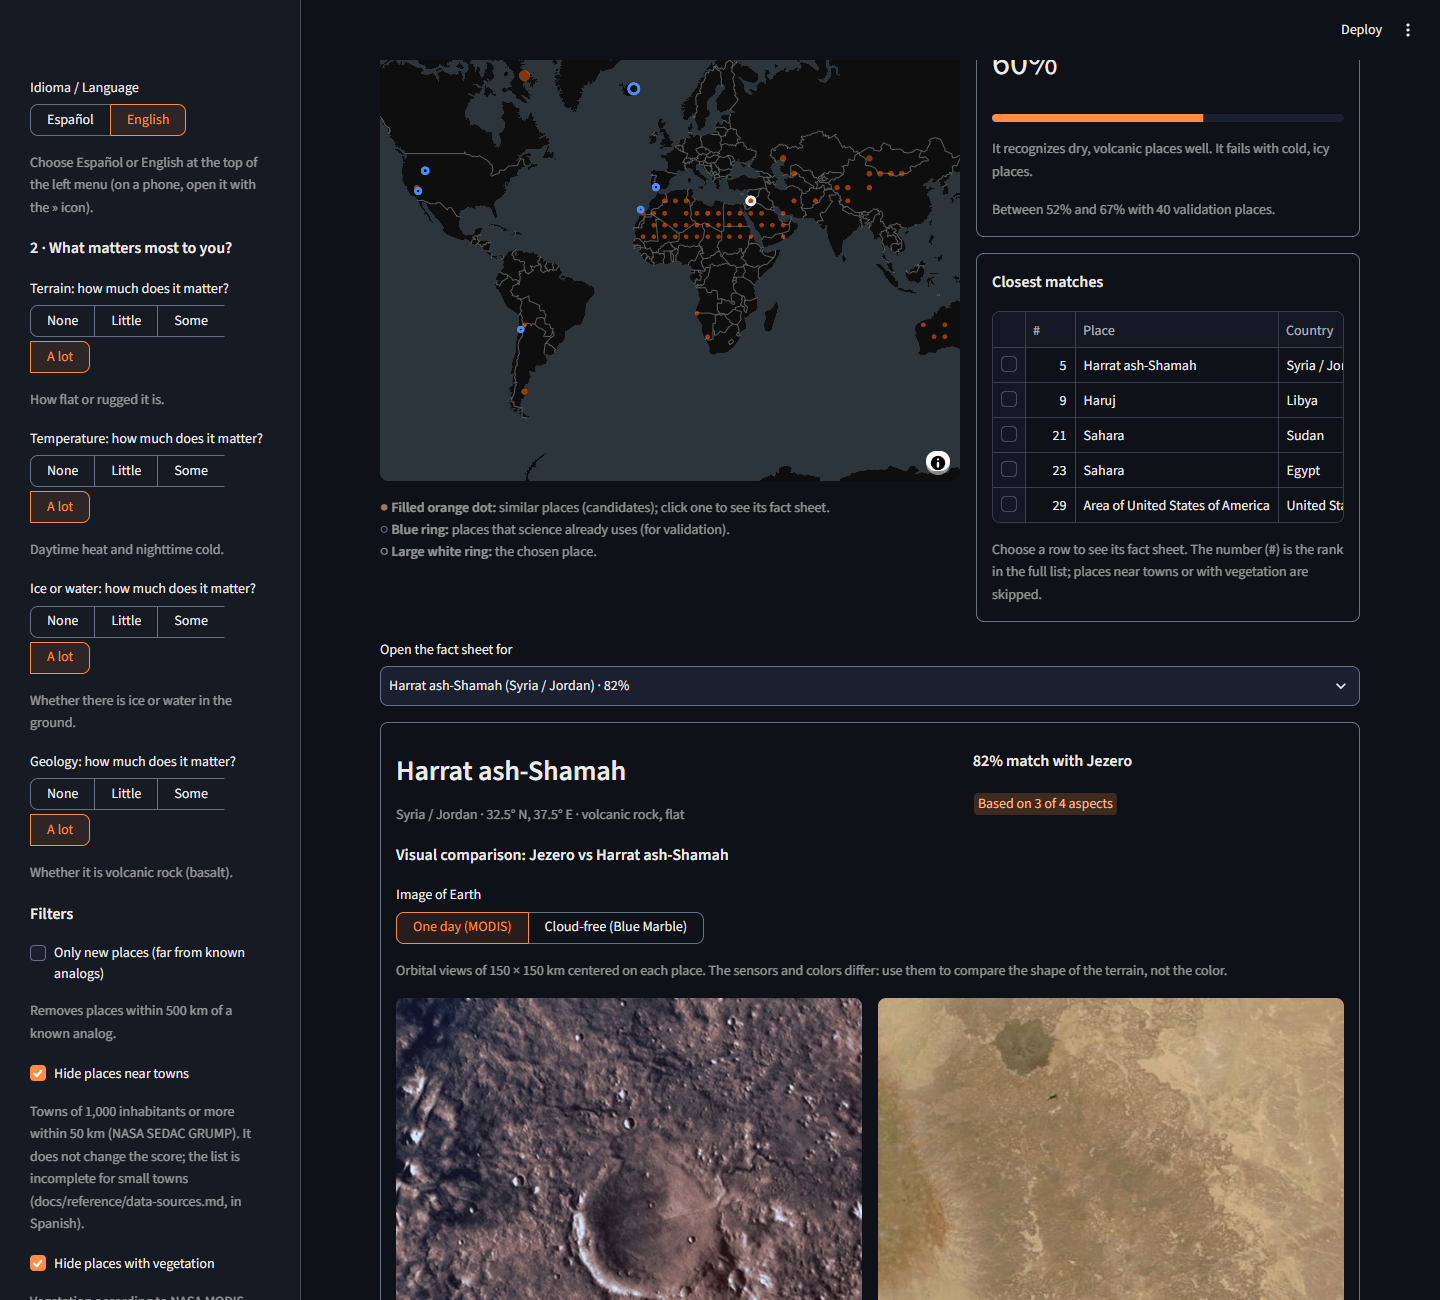
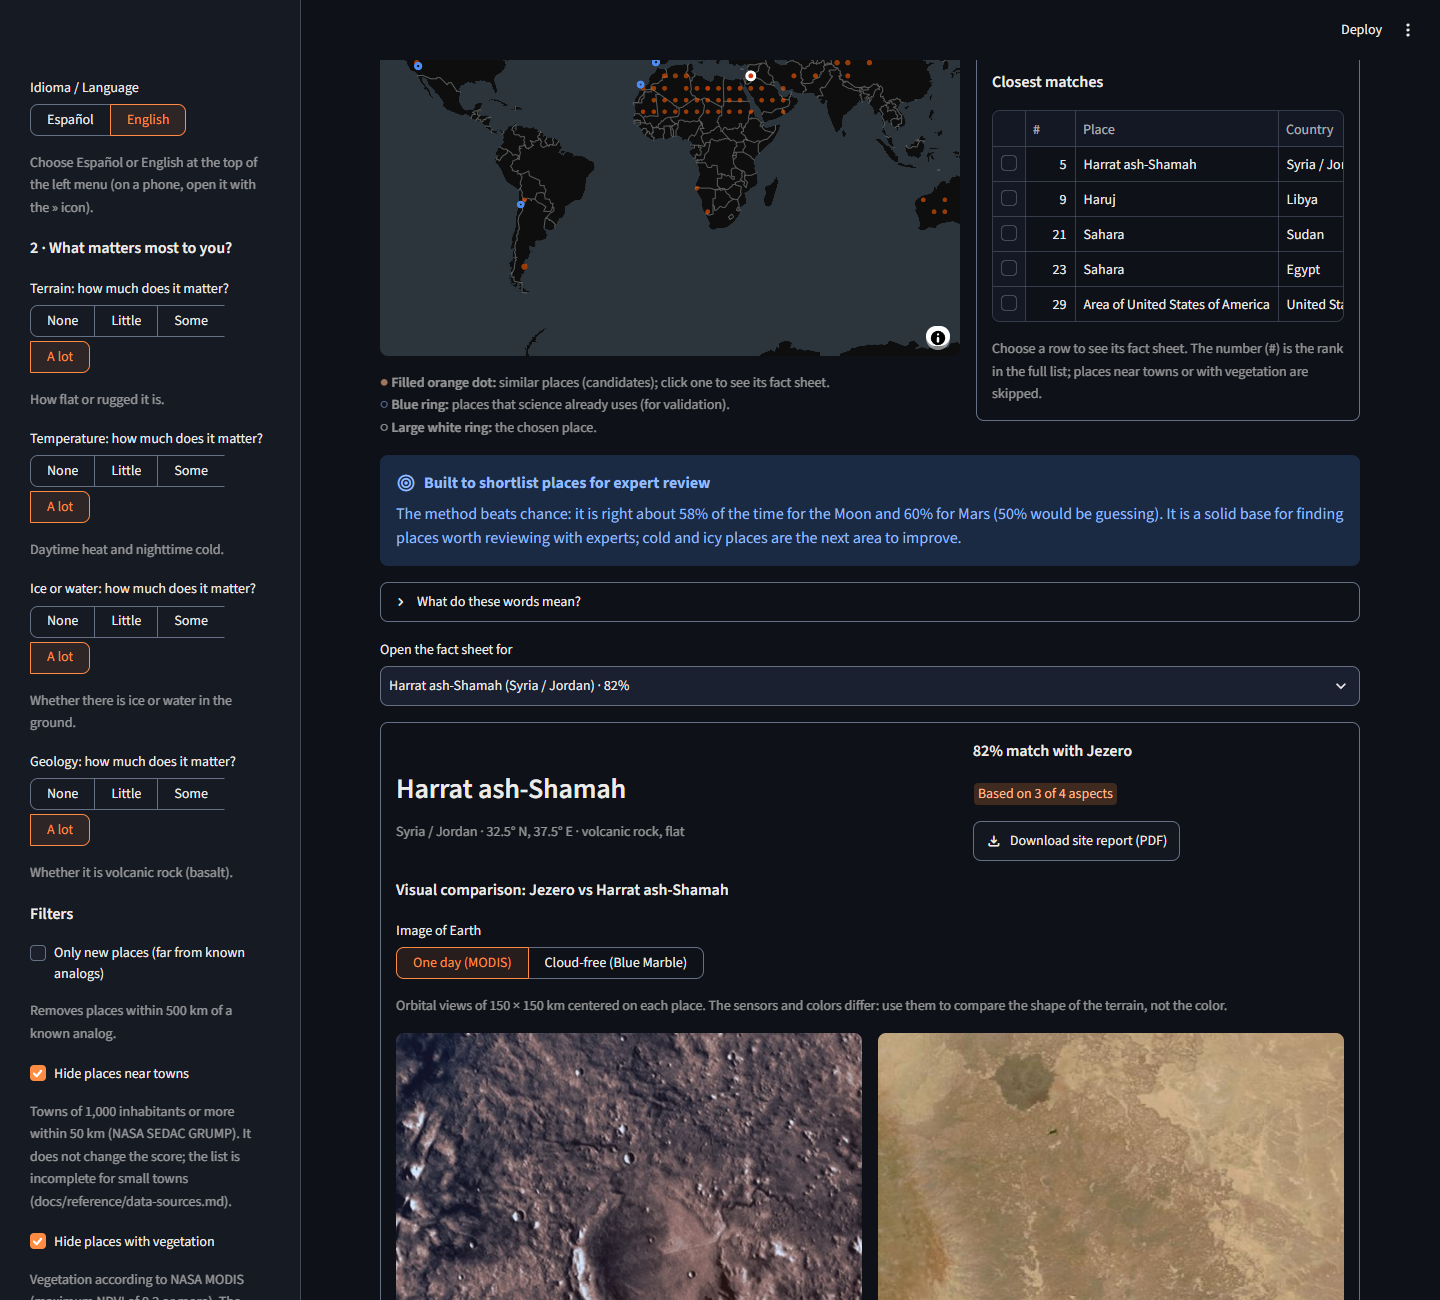
Add featured mission case and region/volcanic filters
- Featured card: rehearse Mars lava-field operations (Harrat ash-Shamah, Haruj) with an Explore button
- Sidebar filters: world regions (regions.py) and volcanic terrain only
- Tests (202 pass), README, interface docs and screenshots updated

diff --git a/app/streamlit_app.py b/app/streamlit_app.py
@@ -21,6 +21,7 @@ from astroatlas.presentation import (RELIABILITY, IMPORTANCE, aspect_info, relia
                                    body_name_of, describe_terrain, site_description, importance_label, explain, glossary,
                                    table_selection_id, map_selection_id, short_limits, match_level, pct, weights_from_importance,
                                    new_selection, translate_case, translate_confidence, translate_why)
+from astroatlas.regions import REGIONS, macro_region
 from astroatlas.report import ficha
 from astroatlas.report_pdf import build_report
 from astroatlas.risks import KEYS as RISK_KEYS, RGB, RGB_UNKNOWN, level_name, risk_levels, risk_values, target_slope_level
@@ -102,6 +103,26 @@ def risk_label(level) -> str:
     return t(lang, LEVEL_TEXT[level_name(level)])
 
 
+@st.cache_data
+def featured_candidates() -> list:
+    """Top two cells of the basaltic-terrain-for-Mars use case (the featured mission case)."""
+    csv = RESULTS_DIR / "usecases.csv"
+    csv = csv if csv.exists() else DEMO_DIR / "results" / "usecases.csv"
+    uc = pd.read_csv(csv)
+    top = uc[uc["use_case"] == "basalto_marte"].sort_values("rank").head(2)
+    return [{"cell_id": r.cell_id, "lat": float(r.lat), "lon": float(r.lon), "score": float(r.score)} for r in top.itertuples()]
+
+
+FEATURED_NOTE = {"earth_24_43": "destacado_harrat", "earth_23_39": "destacado_haruj"}
+
+
+def go_featured(cell_id: str):
+    """Callback of the featured-case button: Mars (Jezero), volcanic terrain only, and the first candidate opened."""
+    st.session_state["sitio"] = ("mars", "Jezero")
+    st.session_state["only_volcanic"] = True
+    st.session_state["profile_cell"] = cell_id
+
+
 try:
     earth, moon, mars, known = load()
 except FileNotFoundError as e:
@@ -118,6 +139,24 @@ for col, n in zip(st.columns(3), (1, 2, 3)):
     with col.container(border=True, height="stretch"):
         st.markdown(f"**{n} · {t(lang, f'paso{n}')}**")
         st.caption(t(lang, f"paso{n}_texto"))
+
+# ---- Featured mission case: the best-supported use of the tool ----
+_feat = featured_candidates()
+if _feat:
+    with st.container(border=True):
+        st.markdown(f"**{t(lang, 'destacado_titulo')}**")
+        st.caption(t(lang, "destacado_texto"))
+        for col, c in zip(st.columns(len(_feat)), _feat):
+            lugar_c, pais_c = nombres(((round(c["lat"], 3), round(c["lon"], 3)),), lang)[0]
+            risk_c = risk_levels(pd.DataFrame([earth[earth["cell_id"] == c["cell_id"]].iloc[0]])).iloc[0]["overall"]
+            with col:
+                st.markdown(f"**{t(lang, 'destacado_cand', lugar=lugar_c, pais=pais_c, n=round(100 * c['score']))}**")
+                if c["cell_id"] in FEATURED_NOTE:
+                    st.caption(t(lang, FEATURED_NOTE[c["cell_id"]]))
+                st.badge(f"{t(lang, 'riesgo_general')}: {risk_label(risk_c)}", color=LEVEL_BADGE[level_name(risk_c)])
+        st.button(t(lang, "destacado_boton"), on_click=go_featured, args=(_feat[0]["cell_id"],), key="go_featured",
+                  icon=":material/travel_explore:")
+        st.caption(t(lang, "destacado_nota"))
 
 # The site selector goes in the page (not in the sidebar): on mobile the sidebar starts closed.
 with st.container(border=True):
@@ -151,6 +190,11 @@ with st.sidebar:
     has_veg = "vegetated" in earth.columns
     hide_vegetated = st.checkbox(t(lang, "f_veg"), value=has_veg, disabled=not has_veg)
     st.caption(t(lang, "f_veg_ayuda"))
+    only_volcanic = st.checkbox(t(lang, "f_volc"), key="only_volcanic")
+    st.caption(t(lang, "f_volc_ayuda"))
+    sel_regions = st.multiselect(t(lang, "f_region"), REGIONS, default=REGIONS, key="regions",
+                                 format_func=lambda k: t(lang, f"region_{k}"))
+    st.caption(t(lang, "f_region_ayuda"))
     with st.expander(t(lang, "avanzadas")):
         top_n = st.slider(t(lang, "mostrar"), 10, 500, 100)
 
@@ -166,10 +210,16 @@ if has_viability:  # information only: the order and the score do not change
     ranked = ranked.merge(earth[["cell_id", "viable", "dist_settlement_km", "settlement_name"]], on="cell_id", how="left")
 if has_veg:
     ranked = ranked.merge(earth[["cell_id", "veg_ndvi_max", "vegetated"]], on="cell_id", how="left")
+ranked["region"] = macro_region(ranked["lat"].values, ranked["lon"].values)
+ranked = ranked.merge(earth[["cell_id", "geo__basalt_frac"]], on="cell_id", how="left", suffixes=("", "_cell"))
 # the filters only affect what is SHOWN; the validation (in "Technical details") uses the full `ranked`
 view = ranked[ranked["viable"].fillna(True).astype(bool)] if (has_viability and hide_populated) else ranked
 if has_veg and hide_vegetated:
     view = view[~view["vegetated"].fillna(False).astype(bool)]
+if set(sel_regions) != set(REGIONS):
+    view = view[view["region"].isin(sel_regions)]
+if only_volcanic:
+    view = view[view["geo__basalt_frac"].fillna(0) >= 0.5]
 shown = (novel_candidates(view, known_body, n=top_n) if only_novel else view.head(top_n)).copy()
 if shown.empty:
     st.warning(t(lang, "sin_lugares"))

diff --git a/src/astroatlas/i18n.py b/src/astroatlas/i18n.py
@@ -391,6 +391,38 @@ TEXTS.update({
 })
 
 
+# ---- region filter and featured mission case ----
+TEXTS.update({
+    "f_region": {"es": "Regiones a mostrar", "en": "Regions to show"},
+    "f_region_ayuda": {"es": "Acota la lista y el mapa a regiones del mundo (límites aproximados). No cambia el puntaje.",
+                       "en": "Narrows the list and map to world regions (approximate boundaries). It does not change the score."},
+    "f_volc": {"es": "Solo terreno volcánico (basalto)", "en": "Volcanic terrain only (basalt)"},
+    "f_volc_ayuda": {"es": "Muestra lugares donde la mitad o más de la roca de la ventana es basalto (GLiM). No cambia el puntaje.",
+                     "en": "Shows places where half or more of the window's rock is basalt (GLiM). It does not change the score."},
+    "region_africa": {"es": "África", "en": "Africa"},
+    "region_europe": {"es": "Europa", "en": "Europe"},
+    "region_asia": {"es": "Asia y Medio Oriente", "en": "Asia and Middle East"},
+    "region_north_america": {"es": "Norteamérica", "en": "North America"},
+    "region_south_america": {"es": "Sudamérica", "en": "South America"},
+    "region_oceania": {"es": "Oceanía", "en": "Oceania"},
+    "region_polar": {"es": "Regiones polares (más allá de 60°)", "en": "Polar regions (beyond 60°)"},
+    "region_other": {"es": "Otras islas", "en": "Other islands"},
+    "destacado_titulo": {"es": "Caso destacado: ensayar operaciones en campos de lava de Marte",
+                         "en": "Featured case: rehearse Mars lava-field operations"},
+    "destacado_texto": {"es": "Dos campos volcánicos basálticos en desierto son los análogos terrestres que mejor reproducen el terreno basáltico de Marte (geología del 85 % al 86 %). Sirven como hipótesis de trabajo para ensayar navegación de rovers y muestreo geológico sobre lava, con apoyo de la literatura y de datos abiertos de la NASA.",
+                        "en": "Two basaltic volcanic fields in desert are the Earth analogs that best reproduce Mars' basaltic terrain (geology 85% to 86%). They are working hypotheses for rehearsing rover navigation and geological sampling on lava, backed by the literature and open NASA data."},
+    "destacado_cand": {"es": "{lugar} ({pais}) · {n} % de parecido medio con 9 sitios de Marte",
+                       "en": "{lugar} ({pais}) · {n}% average match with 9 Mars sites"},
+    "destacado_harrat": {"es": "Ya se usó como análogo de pits planetarios y hay 8 tubos de lava documentados en su región.",
+                         "en": "Already used as a planetary-pit analog, with 8 documented lava tubes in its region."},
+    "destacado_haruj": {"es": "Campo de unos 45 000 km² sin estudio propio como análogo en nuestra búsqueda: una oportunidad.",
+                        "en": "A ~45,000 km² field with no analog study of its own in our search: an opportunity."},
+    "destacado_boton": {"es": "Explorar este caso", "en": "Explore this case"},
+    "destacado_nota": {"es": "El modelo ve el terreno y la geología, no las cuevas; revisa los riesgos de campo en cada ficha.",
+                       "en": "The model sees terrain and geology, not caves; check the field-site risks in each profile."},
+})
+
+
 def t(lang: str, clave: str, **valores):
     """Interface text in `lang` ("es" or "en"; any other value uses English). Fills the `{fields}` with `values`."""
     fila = TEXTS[clave]

diff --git a/src/astroatlas/regions.py b/src/astroatlas/regions.py
@@ -1,0 +1,32 @@
+"""Coarse world regions (for the "Regions" filter of the app) from latitude and longitude.
+
+The boxes are deliberately simple and APPROXIMATE (they are for narrowing a list on screen, not for geography): the first rule
+that matches wins, so the order matters. Cells that match no rule (remote Atlantic and Indian Ocean islands) fall in "other".
+"""
+import numpy as np
+
+REGIONS = ["africa", "europe", "asia", "north_america", "south_america", "oceania", "polar", "other"]
+
+
+def macro_region(lat, lon) -> np.ndarray:
+    """Region key of each (lat, lon) in degrees (longitude -180..180 or 0..360). Accepts scalars or arrays."""
+    la = np.atleast_1d(np.asarray(lat, dtype=float))
+    lo = np.atleast_1d(np.asarray(lon, dtype=float))
+    lo = ((lo + 180.0) % 360.0) - 180.0
+    rules = [
+        (np.abs(la) >= 60, "polar"),                                                    # Arctic, Greenland, Antarctica
+        ((lo <= -140) & (la < 30) & (la > -30), "oceania"),                             # Hawaii and the central Pacific
+        ((la <= -11) & (lo >= 110) | (lo >= 150) & (la < 0), "oceania"),               # Australia, New Zealand, Melanesia
+        ((lo >= -170) & (lo <= -50) & (la >= 15), "north_america"),
+        ((lo >= -92) & (lo <= -30) & (la < 15), "south_america"),
+        ((la <= 36) & (la >= -36) & (lo >= -20) & (lo <= 34.5) | (la < 12) & (la >= -36) & (lo > 34.5) & (lo <= 52), "africa"),
+        ((la >= 36) & (lo >= -25) & (lo <= 26) | (la >= 42) & (lo > 26) & (lo <= 40), "europe"),
+        ((lo >= 26) & (la >= -11), "asia"),                                             # Middle East, Central, South and East Asia
+    ]
+    out = np.full(la.shape, "other", dtype=object)
+    done = np.zeros(la.shape, dtype=bool)
+    for mask, key in rules:
+        hit = mask & ~done
+        out[hit] = key
+        done |= hit
+    return out

diff --git a/tests/test_sensitivity_risks_pdf.py b/tests/test_sensitivity_risks_pdf.py
@@ -83,7 +83,7 @@ def test_demo_earth_has_all_risk_columns_and_a_spread_of_levels():
 
 
 def test_new_texts_exist_in_both_languages():
-    for key in [k for k in TEXTS if k.startswith(("sens_", "riesgo_", "r_", "rv_", "pdf_", "mapa_color", "leyenda_riesgo", "tooltip_riesgo"))]:
+    for key in [k for k in TEXTS if k.startswith(("sens_", "riesgo_", "r_", "rv_", "pdf_", "mapa_color", "leyenda_riesgo", "tooltip_riesgo", "f_region", "f_volc", "region_", "destacado_"))]:
         assert {"es", "en"} <= set(TEXTS[key]), key
 
 
@@ -108,3 +108,22 @@ def test_pdf_report_is_a_valid_pdf(lang):
          "images": [(None, "Jezero (Mars)", "NASA/JPL/USGS"), (None, "Harrat ash-Shamah", "NASA GIBS")]}
     pdf = build_report(d, lang)
     assert pdf[:5] == b"%PDF-" and len(pdf) > 2000 and b"%%EOF" in pdf[-20:]
+
+
+def test_macro_regions_of_known_places():
+    from astroatlas.regions import REGIONS, macro_region
+    pts = {"south_america": (-24.5, -69.25), "asia": (32.5, 37.5), "africa": (27.5, 17.5), "oceania": (19.8, -155.5),
+           "europe": (37.5, -2.5), "north_america": (36.5, -117.0), "polar": (-77.5, 172.5)}
+    for key, (la, lo) in pts.items():
+        assert macro_region(la, lo)[0] == key, key
+    assert macro_region(27.5, 17.5 + 360)[0] == "africa"            # longitude 0..360 is accepted
+    e = load_features("earth")
+    assert set(macro_region(e["lat"].values, e["lon"].values)) <= set(REGIONS)
+
+
+def test_featured_case_cells_exist_in_demo_data():
+    uc = pd.read_csv("demo_data/results/usecases.csv")
+    top = uc[uc["use_case"] == "basalto_marte"].sort_values("rank").head(2)
+    assert list(top["cell_id"]) == ["earth_24_43", "earth_23_39"]
+    e = load_features("earth").set_index("cell_id")
+    assert (e.loc[top["cell_id"], "geo__basalt_frac"] >= 0.5).all()   # both pass the "volcanic terrain only" filter

diff --git a/docs/app/interface.md b/docs/app/interface.md
@@ -80,3 +80,9 @@ Three additions that turn the profile from a display into decision support. None
 - **Rank sensitivity** (`src/astroatlas/sensitivity.py`, expander "How robust is this place's rank?"): the ranking is recomputed with the current weights and, one at a time, with each aspect switched off. A bar chart and a table give the place's rank (among the places visible after the town and vegetation filters) and the top place in every scenario, with a plain-language reading: *robust* if the rank hardly moves, *sensitive* if one aspect carries the match (for example Harrat ash-Shamah is #1 overall but drops to #22 without geology).
 - **Field-site risk indicators** (`src/astroatlas/risks.py`, section "Field-site risks (indicative)" in the profile and a "Color the map by: Field risk" option): eight rules of thumb computed from data the project already holds: 90th-percentile slope, hottest monthly daytime temperature, coldest monthly night temperature, surface dust, wind, perennial snow, altitude and distance to the nearest town. Each is low, medium or high with its value shown as text; the overall level is *high* if the mean level is ≥ 1 or two indicators are high, and *medium* if the mean is ≥ 0.5 or any one is high. The profile also reports the 90th-percentile slope of the Moon or Mars target itself. **Limits:** thresholds are indicative and not mission-certified; values are monthly means or grid-cell statistics, not extremes; **radiation and security/access are not assessed** (the app says so) because this project has no data for them.
 - **PDF site report** (`src/astroatlas/report_pdf.py`, button "Download site report (PDF)"): a two-page document with the match per aspect, the method's reliability and interval, the sensitivity table, the risk indicators, where the analogy breaks down, both orbital views with credits and the "hypothesis, not recommendation" notice. It is generated only when the button is clicked, in the interface language, with the core PDF fonts (text is sanitised to Latin-1).
+
+## Featured case and filters by region and terrain (15 Nov 2026)
+- **Featured mission case** (card under the three steps): *rehearse Mars lava-field operations*. It shows the top two cells of the "Basaltic terrain (Mars)" use case from `usecases.csv` (Harrat ash-Shamah 78 % and Haruj 69 % average match with 9 Mars sites), what makes each interesting (planetary-pit analog and 8 documented lava tubes; no analog study of its own found), their overall field-risk level, and an **Explore this case** button. The button selects Jezero, turns on *Volcanic terrain only* and opens the first candidate's profile. A note reminds that the model sees terrain and geology, not caves. It was chosen because it is the best-supported use of the method in the results ([use cases](../results/use-cases.md)).
+- **Regions to show** (sidebar, `src/astroatlas/regions.py`): a multi-select of Africa, Europe, Asia and Middle East, North America, South America, Oceania, polar regions (beyond 60°) and other islands. The boxes are deliberately coarse and approximate: they narrow the list and the map, they are not a geography product. It affects only what is shown, like the town and vegetation filters; the score does not change.
+- **Volcanic terrain only** (sidebar): keeps places where half or more of the window's rock is basalt (GLiM `geo__basalt_frac` ≥ 0.5; 19 of 951 cells), a quick way to work at the scale of a volcanic field.
+- Both filters also drive the rank sensitivity chart (it ranks among the places that remain visible). Tests: `tests/test_sensitivity_risks_pdf.py`; the filters and the button were also exercised end to end with Streamlit's `AppTest`.

diff --git a/README.md b/README.md
@@ -63,13 +63,14 @@ Directly built on the challenge text: open NASA Earth/Moon/Mars data (LOLA, MOLA
 
 ## What the app shows
 
-1. **Pick a Moon or Mars site** and set how much each aspect matters.
+0. **Start from the featured case** — rehearsing Mars lava-field operations at Harrat ash-Shamah and Haruj — with one click.
+1. **Pick a Moon or Mars site**, set how much each aspect matters, and narrow the results by **world region** or **volcanic terrain**.
 2. **See an interactive map** of the most similar Earth places (named, with country), the known analogs for comparison, and a confidence panel.
 3. **Open a place profile:** match per aspect with a one-line explanation, side-by-side NASA orbital views, and *what Earth cannot imitate*.
 4. **Check robustness and risks:** a *sensitivity chart* shows how the place's rank changes when each aspect is removed in turn; *field-site risk indicators* (slope, heat, cold, dust, wind, snow, altitude, isolation) can also colour the map; and a **PDF site report** summarises the profile, reliability, risks and orbital views.
 5. **Go deeper:** aspect atlas, use-case profiles (mobility, cold operations, ice, basaltic terrain, lava tubes), technical details and credits.
 
-| Choose a site and read the reliability notice | Map of similar places and closest matches |
+| Featured case and site selection | Map of similar places and closest matches |
 |---|---|
 | ![App overview](docs/images/app-top.png) | ![Map and matches](docs/images/app-map.png) |
 
